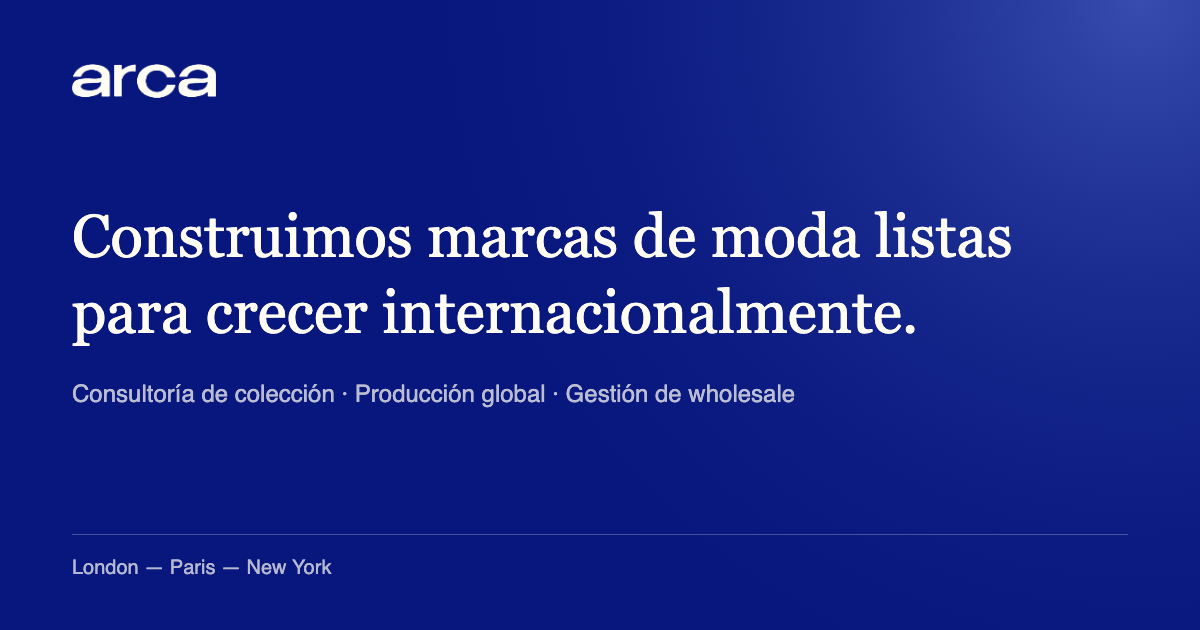
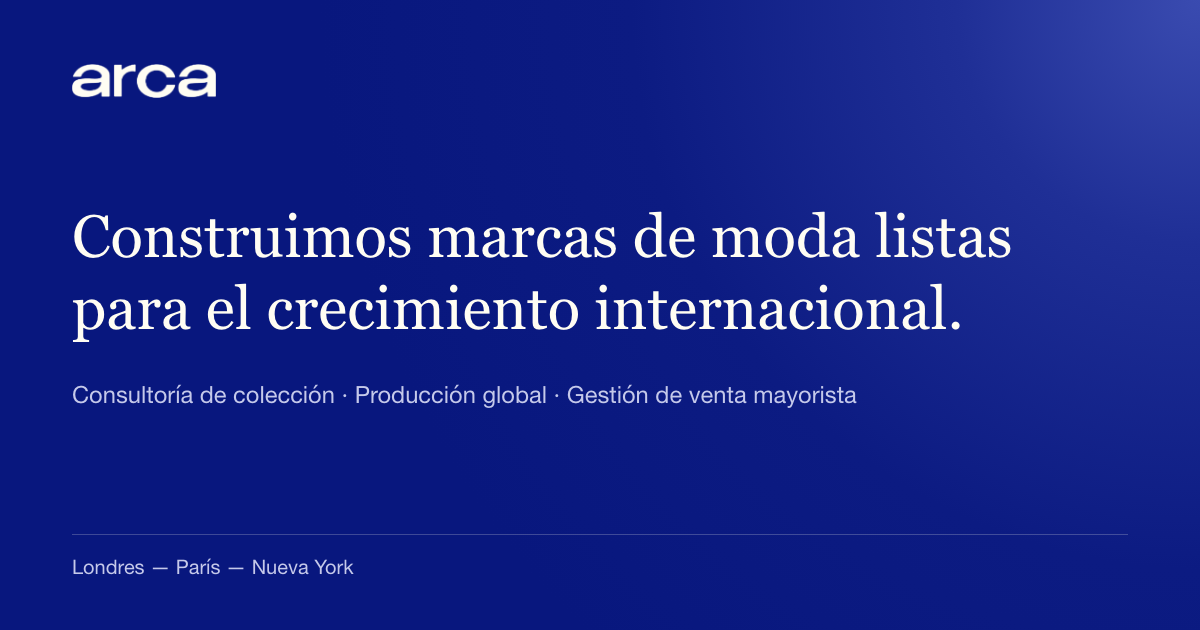
fix: re-render the Spanish share image with the reviewed hero copy
Claude-Session: https://claude.ai/code/session_01LR42j3uvR4ANfmGLAvEUy5

diff --git a/CLAUDE.md b/CLAUDE.md
@@ -178,9 +178,10 @@ excepted — their focus state is the underline per spec).
   diverge, the change was incomplete. Full checklist under "Content rules".
 - **OG images** are rendered with system font stand-ins — re-render from the
   design file with real Cormorant Garamond/DM Sans when brand type matters.
-- **`social/og-image-es.png`** is an unreviewed translation and is now live on
-  `/es/`. Re-render it whenever the Spanish hero copy changes, and get it
-  reviewed alongside the page copy.
+- **`social/og-image-es.png`** was re-rendered in Sep 2026 to match the reviewed
+  hero copy ("…listas para el crecimiento internacional", "Gestión de venta
+  mayorista", "Londres — París — Nueva York"). Re-render it whenever the Spanish
+  hero copy changes.
 - **Favicon rule:** the square favicon is the ONLY permitted container for
   the wordmark. Everywhere else: no container shapes.
 
@@ -195,8 +196,8 @@ excepted — their focus state is the underline per spec).
    pass: thousands are Colombia-style (`3.000+`); "retailers" not "retail" for
    relationships; industry terms deliberately left in English (sourcing,
    fashion week, swimwear, chainmail, line sheets, sell-in, DTC, SKU,
-   e-commerce, pop-ups, showroom). Not yet reviewed: `social/og-image-es.png`,
-   which still carries the pre-review hero wording.
+   e-commerce, pop-ups, showroom). `social/og-image-es.png` now carries the reviewed
+   hero wording.
 
 Third-party logo permissions: client/buyer/press marks belong to their owners —
 Honor confirmed use for the full current set including the five marks added in
